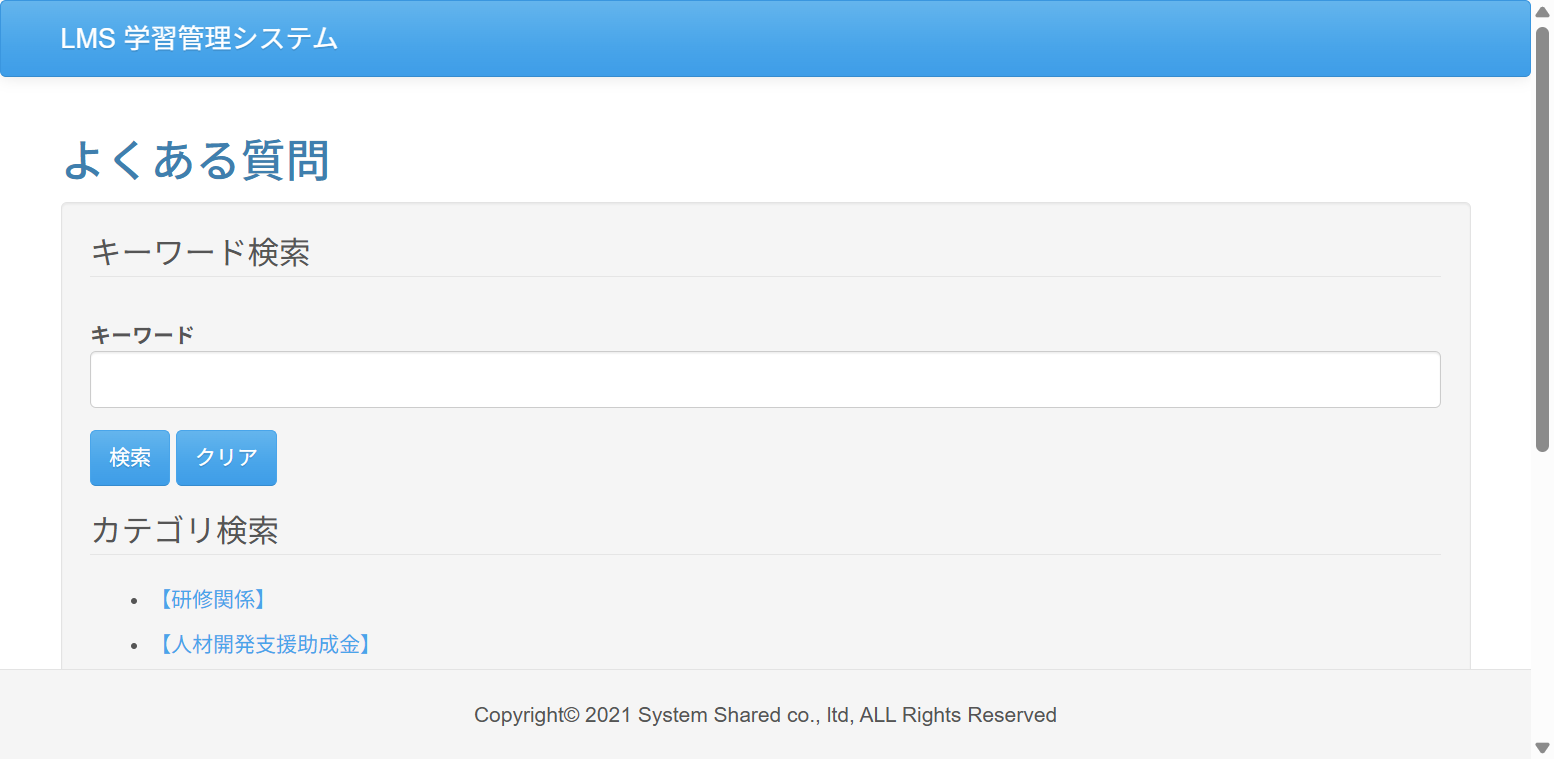
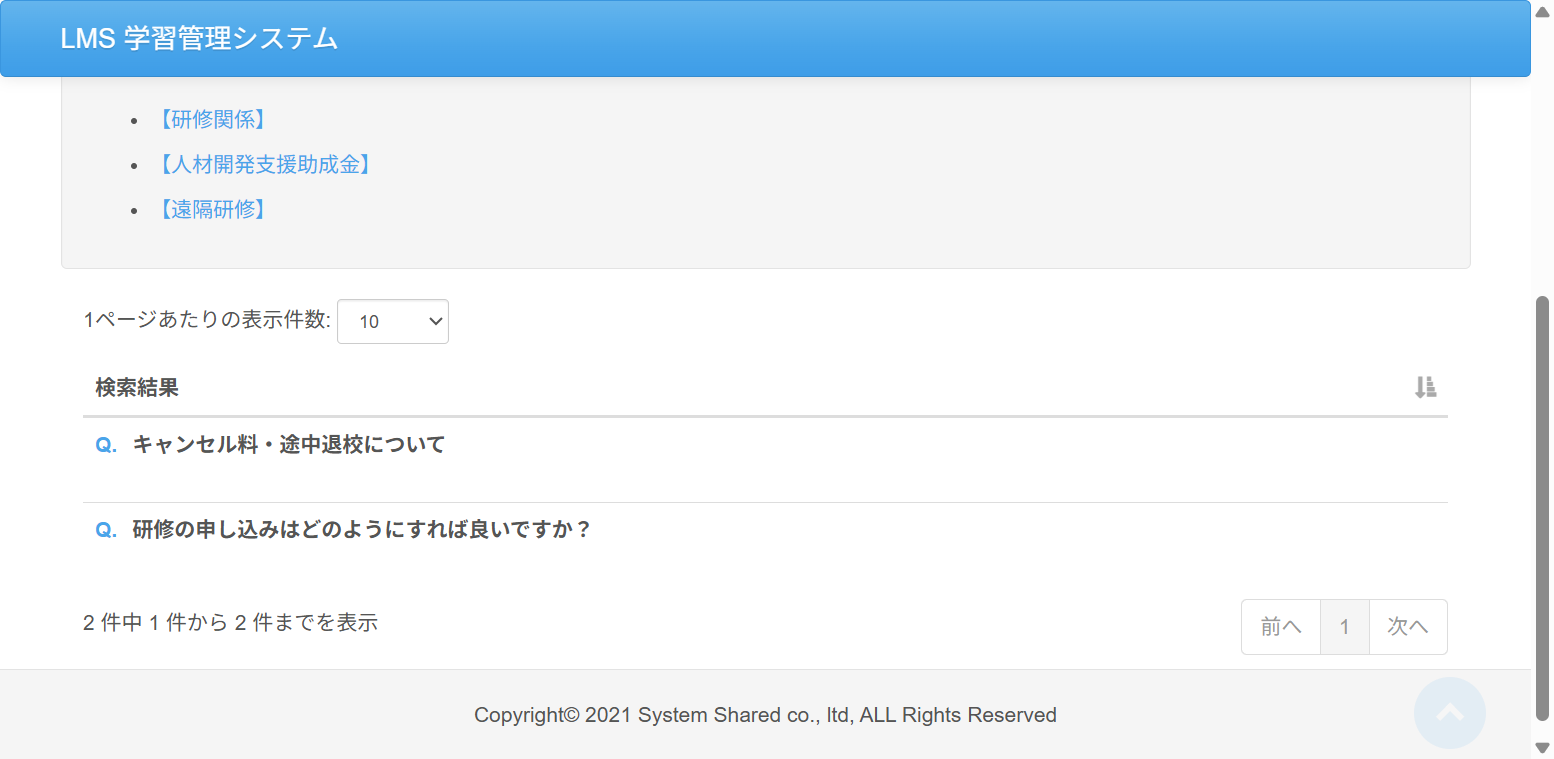
fix:Case05,06のエビデンスが画角外であったことの修正、Case06のテスト結果記入
Case05,06の一部テストのエビデンスが期待値を保存していなかったため画面をスクロールする処理を追記、併せてリファクタを行った。
以上修正が完了したため再テストを行い仕様書にテスト結果を記載した。

diff --git a/test_code_creation_hijikatakazuki/src/test/java/jp/co/sss/lms/ct/f02_faq/Case06.java b/test_code_creation_hijikatakazuki/src/test/java/jp/co/sss/lms/ct/f02_faq/Case06.java
@@ -148,12 +148,12 @@ public class Case06 {
 				otherQuestion = element;
 			}
 		}
-		assertNotEquals(cancellFeeAndDropSchool, null);
-		assertNotEquals(applyForTraining, null);
+		assertNotNull(cancellFeeAndDropSchool);
+		assertNotNull(applyForTraining);
 		assertNull(otherQuestion);
 
-		((JavascriptExecutor) webDriver).executeScript("arguments[0].scrollIntoView(true);", cancellFeeAndDropSchool);
-		cancellFeeAndDropSchool.click();
+		((JavascriptExecutor) webDriver).executeScript("window.scrollTo(0,320);", "");
+
 		getEvidence(new Object() {
 		});
 
@@ -163,15 +163,18 @@ public class Case06 {
 	@Order(6)
 	@DisplayName("テスト06 検索結果の質問をクリックしその回答を表示")
 	void test06() {
+		// 表示対象の要素を取得
 		final WebElement cancellFeeAndDropSchool = webDriver
-				.findElement(By.xpath("//dl[contains(@id,'question-h')]"));
+				.findElement(By.xpath(TestUrlUtil.CANCELL_FEE_AND_DROP_SCHOOL_XPATH));
 		assertEquals(TestStringUtil.CANCELL_FEE_AND_DROP_SCHOOL, cancellFeeAndDropSchool.getText());
 
+		// スクロールし取得した要素をクリック
 		((JavascriptExecutor) webDriver).executeScript("arguments[0].scrollIntoView(true);", cancellFeeAndDropSchool);
 		cancellFeeAndDropSchool.click();
 
+		// 回答の要素を取得し、表示されているかを確認
 		final WebElement cancellFeeAndDropSchoolAnswer = webDriver
-				.findElement(By.xpath("//dd[contains(@id,'answer-h')]"));
+				.findElement(By.xpath(TestUrlUtil.CANCELL_FEE_AND_DROP_SCHOOL_ANSER_XPATH));
 		assertEquals(TestStringUtil.CANCELL_FEE_AND_DROP_SCHOOL_ANSER, cancellFeeAndDropSchoolAnswer.getText());
 		assertTrue(cancellFeeAndDropSchoolAnswer.isDisplayed());
 

diff --git a/test_code_creation_hijikatakazuki/src/test/java/jp/co/sss/lms/ct/f02_faq/Case05.java b/test_code_creation_hijikatakazuki/src/test/java/jp/co/sss/lms/ct/f02_faq/Case05.java
@@ -13,6 +13,7 @@ import org.junit.jupiter.api.Order;
 import org.junit.jupiter.api.Test;
 import org.junit.jupiter.api.TestMethodOrder;
 import org.openqa.selenium.By;
+import org.openqa.selenium.JavascriptExecutor;
 import org.openqa.selenium.WebElement;
 
 import jp.co.sss.lms.ct.util.TestStringUtil;
@@ -153,7 +154,11 @@ public class Case05 {
 		assertNull(otherQuestion);
 
 		getEvidence(new Object() {
-		});
+		}, "1");
+
+		((JavascriptExecutor) webDriver).executeScript("arguments[0].scrollIntoView(true);", applyForTraining);
+		getEvidence(new Object() {
+		}, "2");
 	}
 
 	@Test
@@ -167,6 +172,8 @@ public class Case05 {
 
 		searchForm = webDriver.findElement(By.id("form"));
 		assertEquals("", searchForm.getAttribute("value"));
+
+		((JavascriptExecutor) webDriver).executeScript("arguments[0].scrollIntoView(true);", searchForm);
 
 		getEvidence(new Object() {
 		});

diff --git a/test_code_creation_hijikatakazuki/src/test/java/jp/co/sss/lms/ct/util/TestUrlUtil.java b/test_code_creation_hijikatakazuki/src/test/java/jp/co/sss/lms/ct/util/TestUrlUtil.java
@@ -14,4 +14,7 @@ public interface TestUrlUtil {
 
 	public static final String CATEGORY_SEARCH_TRAINING_XPATH = "/html/body/div[1]/div/div[1]/div/div[1]/fieldset/ul[1]/li/a";
 
+	public static final String CANCELL_FEE_AND_DROP_SCHOOL_XPATH = "//dl[contains(@id,'question-h')]";
+
+	public static final String CANCELL_FEE_AND_DROP_SCHOOL_ANSER_XPATH = "//dd[contains(@id,'answer-h')]";
 }
